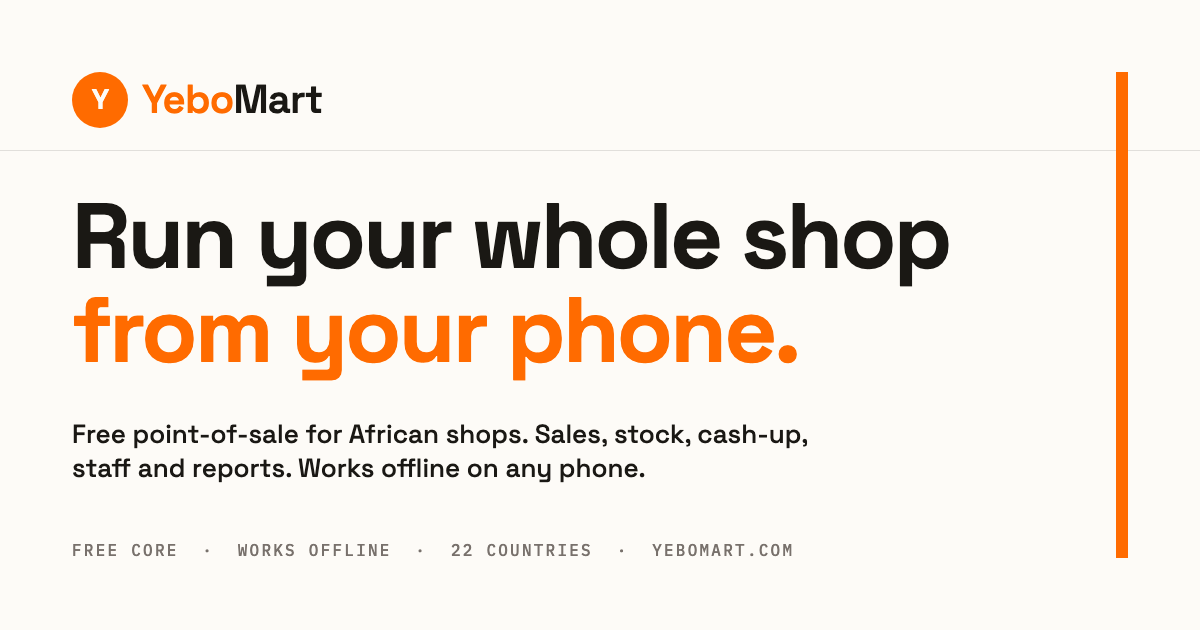
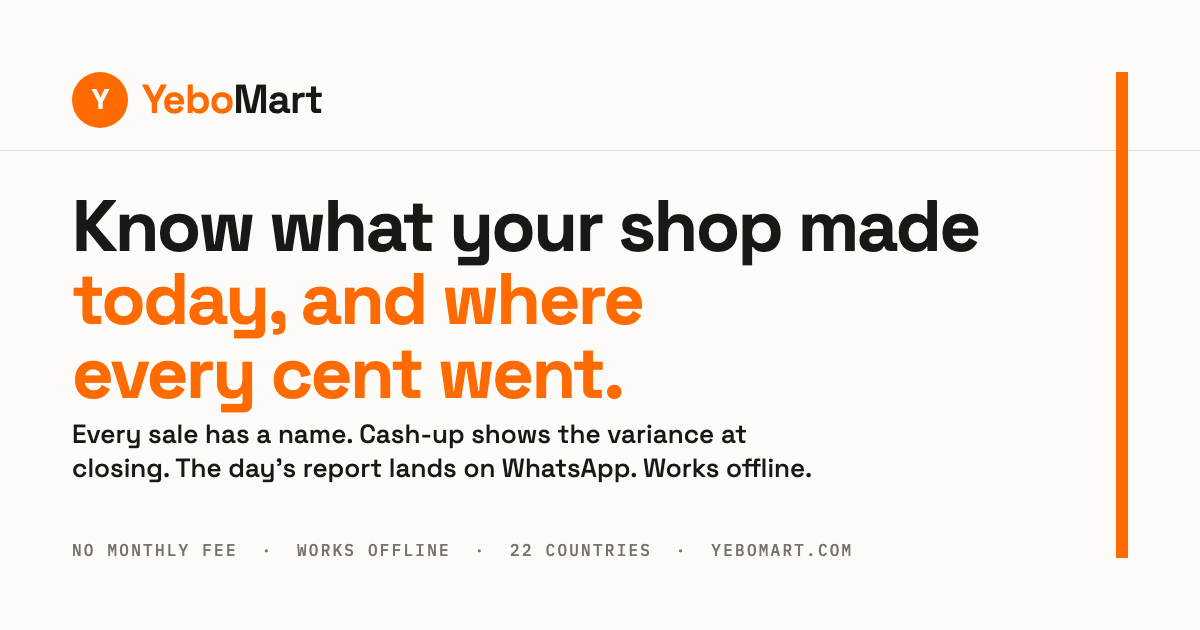
copy: reposition around the promise, features first, free as risk reversal
Hero, proof strip, features, assistant, messages, pricing, FAQ, final CTA
and meta rewritten on Ogilvy lines: one promise (know what the shop made
and where every cent went), audience flagged in the eyebrow, problem-to-
solution proof strip in the owner's words, features ordered by pull,
'free' moved out of the headline into pricing and the closing CTA.
EN and FR bundles updated; OG image regenerated with the new headline.

Changed region(s): [[0.0617, 0.3016, 0.8325, 0.7841], [0.2775, 0.8444, 0.7092, 0.9048], [0.0617, 0.8444, 0.2467, 0.9048]]

diff --git a/src/data/copy.ts b/src/data/copy.ts
@@ -16,10 +16,10 @@ export const PHONE_LABEL = '+268 7842 2613';
 export const APP_URL = 'https://app.yebomart.com';
 
 export const PROOF: { value: string; label: string; body: string }[] = [
-  { value: 'E0/mo', label: 'Free core', body: 'The till, stock, staff and reports are free. Forever.' },
-  { value: 'Offline', label: 'Keeps selling', body: 'Sales save on the phone and sync when the signal returns. Never counted twice.' },
-  { value: '22', label: 'Countries', body: 'Prices in your currency, from Eswatini to Kenya to Nigeria.' },
-  { value: '0', label: 'Extra hardware', body: 'Your phone camera is the barcode scanner.' },
+  { value: '“The cash doesn’t match.”', label: 'Cash-up', body: 'Open the till with a float, close it with the count. The variance is on screen before the drawer is locked, and every sale carries the cashier’s name.' },
+  { value: '“I can’t leave the shop.”', label: 'Your phone', body: 'Watch sales as they happen from anywhere. At closing time the day’s numbers land on your WhatsApp.' },
+  { value: '“Out of bread again.”', label: 'Stock', body: 'Counts drop with every sale. You get a warning before you run out, and a reorder list built from what actually sells.' },
+  { value: '“The signal’s gone.”', label: 'Offline', body: 'Sales keep saving on the phone and sync when the network returns. Never counted twice.' },
 ];
 
 export const LOOP: { n: string; title: string; body: string }[] = [
@@ -43,16 +43,16 @@ export const UNDER_HOOD: { icon: IconName; title: string; body: string }[] = [
 ];
 
 export const FEATURES: { icon: IconName; title: string; body: string }[] = [
-  { icon: 'till', title: 'POS & mobile till', body: 'A full-screen till built for one thumb. Scan, tap, charge.' },
-  { icon: 'stock', title: 'Stock & reorder', body: "Live counts, movements, receive stock, and a reorder list built from what's actually selling." },
-  { icon: 'cash', title: 'Cash-up & Z-report', body: 'Float in, cash counted out, variance and Z-report in one tap.' },
-  { icon: 'staff', title: 'Staff & PINs', body: 'Cashiers and managers with their own PINs and per-person sales reports.' },
-  { icon: 'returns', title: 'Returns & exchanges', body: 'Refund or swap an item. Stock and takings correct themselves.' },
-  { icon: 'supplier', title: 'Suppliers & purchase orders', body: 'Raise a PO, receive against it, record payments, see what you owe.' },
-  { icon: 'credit', title: 'Customer credit book', body: 'Who owes what, and a statement you can send by WhatsApp.' },
-  { icon: 'expense', title: 'Expenses', body: 'Rent, airtime, transport. So profit means profit.' },
-  { icon: 'audit', title: 'Audit log', body: 'Who did what, when. Voids, edits, adjustments.' },
-  { icon: 'tax', title: 'VAT & tax', body: 'Set your rate once. Receipts and reports respect it.' },
+  { icon: 'cash', title: 'Cash-up & Z-report', body: 'Float in, cash counted out. The variance and the Z-report are on screen before you lock the drawer.' },
+  { icon: 'staff', title: 'Staff PINs', body: 'Every cashier has a PIN. Every sale, void and refund carries their name, with a sales report per person.' },
+  { icon: 'stock', title: 'Stock & reorder', body: 'Live counts, movements and receiving. A reorder list builds itself from what sells, and a WhatsApp warns you when something runs low.' },
+  { icon: 'credit', title: 'Customer credit book', body: 'Who owes what, since when. Send a statement by WhatsApp in one tap instead of chasing.' },
+  { icon: 'till', title: 'POS & mobile till', body: 'A full-screen till for one thumb. Scan with the camera, tap, take cash or card, print or SMS the receipt.' },
+  { icon: 'returns', title: 'Returns & exchanges', body: 'Refund or swap in seconds. Stock and takings correct themselves.' },
+  { icon: 'supplier', title: 'Suppliers & purchase orders', body: 'Raise a PO, receive against it, record what you paid and see what you still owe.' },
+  { icon: 'expense', title: 'Expenses', body: 'Rent, airtime, transport. So profit means profit, not just sales.' },
+  { icon: 'audit', title: 'Audit log', body: 'Who changed a price, voided a sale or adjusted a count. And when.' },
+  { icon: 'tax', title: 'VAT & tax', body: 'Set your rate once. Receipts and reports carry it.' },
 ];
 
 export const ASSISTANT_QA: { q: string; a: string }[] = [
@@ -97,9 +97,10 @@ export const MESSAGES: { kind: string; time: string; text: string; why: string }
 
 export const FAQ: { q: string; a: string }[] = [
   { q: 'Does it work without internet?', a: 'Yes. Sales save on the phone and sync the moment the signal returns. Each sale carries its own ID, so the server refuses duplicates and nothing is counted twice.' },
-  { q: 'What does it cost?', a: 'The till, stock, staff, suppliers, customers and reports are free. You only pay for things that cost us money: 1 credit is E1. An assistant question is half a credit, an SMS is 1, a WhatsApp message is 2. Credits never expire.' },
+  { q: 'How does it stop money going missing?', a: 'Every cashier rings up on their own PIN, so every sale, void and refund has a name on it. At closing you count the drawer and the variance shows immediately. The audit log keeps every price change and stock adjustment.' },
+  { q: 'What does it cost?', a: 'There is no monthly fee. The till, stock, staff, suppliers, credit book and reports are free. You only pay for things that cost us money: 1 credit is E1. An assistant question is half a credit, an SMS is 1, a WhatsApp message is 2. Credits never expire.' },
   { q: 'Do I need a computer or a special till?', a: 'No. Any phone or tablet with a browser is the till. Your camera scans barcodes. If you want speed, add a Bluetooth scanner or a receipt printer later.' },
   { q: 'Can I run more than one shop?', a: 'Today each YeboID owner runs one shop. Multi-shop is being built. If you need it now, tell us on WhatsApp and we will put you on the list.' },
-  { q: 'How do my staff log in?', a: 'You sign in with YeboID on your phone number. Each cashier or manager gets a PIN on the shop\'s device, so every sale and every void has a name on it.' },
-  { q: 'Which languages?', a: 'The app runs in English and French. Reports and receipts use your currency and your VAT rate.' },
+  { q: 'How do my staff log in?', a: 'You sign in with YeboID on your phone number. Each cashier or manager gets a PIN on the shop’s device, so every sale and every void has a name on it.' },
+  { q: 'Which languages?', a: 'The app runs in English and French, with prices in your currency across 22 African countries.' },
 ];

diff --git a/src/data/translations.ts b/src/data/translations.ts
@@ -33,18 +33,18 @@ export const TRANSLATIONS: Record<'en' | 'fr', Bundle> = {
     'nav.hardware': 'Hardware',
     'nav.how': 'How it works',
     'nav.openApp': 'Open the app',
-    'hero.cta': 'Open the app',
-    'hero.eyebrow': 'Free POS & shop management',
-    'hero.line1': 'Run your whole shop',
-    'hero.line2': 'from your phone.',
+    'hero.cta': 'Set up your shop',
+    'hero.eyebrow': 'For shop owners who can\'t stand at the till all day',
+    'hero.line1': 'Know what your shop made today,',
+    'hero.line2': 'and where every cent went.',
     'hero.lede':
-      "YeboMart is a free point-of-sale for African shops. Ring up sales, watch stock move, count the till, and get the day's numbers on WhatsApp. Works offline. No computer needed.",
+      "YeboMart turns the phone in your pocket into the till, the stock book and the cash-up. Every sale carries a cashier's name, every closing shows whether the drawer matches, and every evening the day's numbers land on your WhatsApp. Sales keep saving when the signal drops.",
     'hero.whatsapp': 'WhatsApp us',
-    'hero.facts': 'Free core · Works offline · 22 countries · English & French',
-    'cta.title': 'Ready when your next customer is.',
-    'cta.body': "Sign in with your phone number and ring your first sale in five minutes. We'll help you set up on WhatsApp.",
-    'pricing.title': 'Free to use. Pay only for AI & messaging.',
-    'pricing.subtitle': 'No subscription. No tiers. Top up credits when you need them.',
+    'hero.facts': 'Every sale has a name · Cash-up variance at closing · Works offline · Report on WhatsApp at 18:00',
+    'cta.title': 'Ring your first sale before the next customer walks in.',
+    'cta.body': "Sign in with your phone number, name your shop, scan your stock in. Five minutes. The core is free, no card, no contract. We'll help you set up on WhatsApp.",
+    'pricing.title': 'No monthly fee. Pay only for messages and assistant questions.',
+    'pricing.subtitle': 'The till, stock, staff, credit book and reports cost nothing. Credits cover the things that cost us money.',
     'countryPicker.title': 'Select Your Country',
     'countryPicker.search': 'Search countries...',
     'footer.tagline': 'Shop management made simple',
@@ -58,18 +58,18 @@ export const TRANSLATIONS: Record<'en' | 'fr', Bundle> = {
     'nav.hardware': 'Matériel',
     'nav.how': 'Comment ça marche',
     'nav.openApp': "Ouvrir l'app",
-    'hero.cta': "Ouvrir l'app",
-    'hero.eyebrow': 'Caisse et gestion de boutique gratuites',
-    'hero.line1': 'Gérez toute votre boutique',
-    'hero.line2': 'depuis votre téléphone.',
+    'hero.cta': 'Créer ma boutique',
+    'hero.eyebrow': 'Pour les commerçants qui ne peuvent pas rester à la caisse toute la journée',
+    'hero.line1': "Sachez ce que votre boutique a fait aujourd'hui,",
+    'hero.line2': 'et où est passé chaque centime.',
     'hero.lede':
-      "YeboMart est une caisse gratuite pour les boutiques africaines. Encaissez, suivez le stock, comptez la caisse et recevez les chiffres du jour sur WhatsApp. Fonctionne hors ligne. Sans ordinateur.",
+      "YeboMart transforme le téléphone dans votre poche en caisse, en registre de stock et en clôture de caisse. Chaque vente porte le nom du caissier, chaque clôture montre si le tiroir correspond, et chaque soir les chiffres du jour arrivent sur votre WhatsApp. Les ventes continuent d'être enregistrées quand le réseau tombe.",
     'hero.whatsapp': 'Écrivez-nous sur WhatsApp',
-    'hero.facts': 'Gratuit · Hors ligne · 22 pays · Anglais et français',
-    'cta.title': 'Prêt dès votre prochain client.',
-    'cta.body': "Connectez-vous avec votre numéro et encaissez votre première vente en cinq minutes. On vous aide à démarrer sur WhatsApp.",
-    'pricing.title': "Gratuit. Payez uniquement pour l'IA et la messagerie.",
-    'pricing.subtitle': "Pas d'abonnement. Pas de paliers. Rechargez quand vous en avez besoin.",
+    'hero.facts': 'Chaque vente a un nom · Écart de caisse à la clôture · Hors ligne · Rapport WhatsApp à 18h',
+    'cta.title': 'Encaissez votre première vente avant le prochain client.',
+    'cta.body': "Connectez-vous avec votre numéro, nommez votre boutique, scannez votre stock. Cinq minutes. La base est gratuite, sans carte ni contrat. On vous aide à démarrer sur WhatsApp.",
+    'pricing.title': "Pas d'abonnement. Payez seulement les messages et les questions à l'assistant.",
+    'pricing.subtitle': 'La caisse, le stock, le personnel, le carnet de crédit et les rapports ne coûtent rien. Les crédits couvrent ce qui nous coûte de l\'argent.',
     'countryPicker.title': 'Sélectionner votre pays',
     'countryPicker.search': 'Rechercher des pays...',
     'footer.tagline': 'La gestion de boutique simplifiée',

diff --git a/index.html b/index.html
@@ -3,10 +3,10 @@
   <head>
     <meta charset="UTF-8" />
     <meta name="viewport" content="width=device-width, initial-scale=1.0" />
-    <title>YeboMart — Free POS & shop management for African shops</title>
+    <title>YeboMart — Know what your shop made today, and where every cent went</title>
     <meta
       name="description"
-      content="Free point-of-sale for African shops. Ring up sales, track stock, count the till, and get the day's numbers on WhatsApp. Works offline on any phone. Pay only for AI and messages."
+      content="Know what your shop made today and where every cent went. Every sale carries a cashier's name, cash-up shows the variance at closing, the day's report lands on WhatsApp. Works offline on any phone. No monthly fee."
     />
     <link rel="canonical" href="https://yebomart.com/" />
 
@@ -18,10 +18,10 @@
     <meta property="og:type" content="website" />
     <meta property="og:site_name" content="YeboMart" />
     <meta property="og:url" content="https://yebomart.com/" />
-    <meta property="og:title" content="YeboMart — Free POS & shop management for African shops" />
+    <meta property="og:title" content="YeboMart — Know what your shop made today, and where every cent went" />
     <meta
       property="og:description"
-      content="Ring up sales, track stock, count the till, and get the day's numbers on WhatsApp. Works offline on any phone. Free to use."
+      content="Every sale carries a cashier's name, cash-up shows the variance at closing, the day's report lands on WhatsApp. Works offline on any phone. No monthly fee."
     />
     <meta property="og:image" content="https://yebomart.com/og-image.png" />
     <meta property="og:image:width" content="1200" />
@@ -29,10 +29,10 @@
 
     <!-- Twitter / X card -->
     <meta name="twitter:card" content="summary_large_image" />
-    <meta name="twitter:title" content="YeboMart — Free POS & shop management for African shops" />
+    <meta name="twitter:title" content="YeboMart — Know what your shop made today, and where every cent went" />
     <meta
       name="twitter:description"
-      content="Ring up sales, track stock, count the till, and get the day's numbers on WhatsApp. Works offline on any phone. Free to use."
+      content="Every sale carries a cashier's name, cash-up shows the variance at closing, the day's report lands on WhatsApp. Works offline on any phone. No monthly fee."
     />
     <meta name="twitter:image" content="https://yebomart.com/og-image.png" />
 

diff --git a/src/components/sections/Pricing.tsx b/src/components/sections/Pricing.tsx
@@ -37,9 +37,9 @@ export function Pricing() {
 
         <Reveal className="mt-14 grid gap-8 rounded-sharp border border-line bg-cream p-7 lg:grid-cols-[minmax(0,300px)_1fr] lg:p-10">
           <div>
-            <Eyebrow>Free, forever</Eyebrow>
-            <h3 className="mt-3 font-display text-[26px] font-bold leading-tight tracking-tightest">Everything a shop runs on.</h3>
-            <p className="lede mt-3 text-[15px] leading-[1.6]">No subscription, no tiers, no trial that ends.</p>
+            <Eyebrow>No monthly fee</Eyebrow>
+            <h3 className="mt-3 font-display text-[26px] font-bold leading-tight tracking-tightest">Everything a shop runs on, free.</h3>
+            <p className="lede mt-3 text-[15px] leading-[1.6]">No subscription, no tiers, no trial that ends, no card to enter.</p>
           </div>
           <ul className="grid gap-x-6 gap-y-2.5 text-[14.5px] sm:grid-cols-2 lg:grid-cols-3">
             {FREE_FEATURES.map((f) => (

diff --git a/src/components/sections/Features.tsx b/src/components/sections/Features.tsx
@@ -10,9 +10,9 @@ export function Features() {
       <Page className="py-24 lg:py-32">
         <SectionHead
           index="02"
-          label="Everything a shop needs"
-          heading="The whole back office, in the same app as the till."
-          lede="Every screen below is free. They share one database, so a sale on the till is already in stock, in reports, and in the audit log."
+          label="What you get"
+          heading="The till, the stock book, the cash-up and the staff log. One app."
+          lede="One database under all of it, so a sale rung up on the till is already in the stock count, the cash-up, tonight's report and the audit log. No re-typing, no second book."
         />
         <ul className="mt-14 grid gap-px overflow-hidden rounded-sharp border border-line bg-line sm:grid-cols-2 lg:grid-cols-5">
           {FEATURES.map((f, i) => (

diff --git a/src/components/sections/ProofStrip.tsx b/src/components/sections/ProofStrip.tsx
@@ -9,7 +9,7 @@ export function ProofStrip() {
         <ul className="grid gap-px overflow-hidden rounded-sharp border border-line bg-line sm:grid-cols-2 lg:grid-cols-4">
           {PROOF.map((p, i) => (
             <Reveal as="li" key={p.label} delay={i * 90} className="bg-sand p-6">
-              <div className="font-display text-[34px] font-bold leading-none tracking-tightest">{p.value}</div>
+              <div className="font-display text-[24px] font-bold leading-[1.15] tracking-tightest">{p.value}</div>
               <div className="mt-2 font-mono text-[11px] uppercase tracking-eyebrow text-brick">{p.label}</div>
               <p className="mt-2 text-[14.5px] leading-[1.55] text-mute">{p.body}</p>
             </Reveal>

diff --git a/src/components/sections/Messages.tsx b/src/components/sections/Messages.tsx
@@ -15,7 +15,7 @@ export function Messages() {
             index="04"
             label="Messages"
             heading="The numbers come to you."
-            lede="Every evening the day's report lands on your WhatsApp. Low stock, receipts and customer statements go out the same way. WhatsApp first, SMS if WhatsApp can't deliver."
+            lede="At closing time the day's report lands on your WhatsApp: sales, cash against card, profit, top five. Low-stock warnings in the morning. Receipts to customers by SMS. Statements to the people who owe you. WhatsApp first, SMS when WhatsApp can't deliver."
           />
           <dl className="mt-9 grid gap-x-8 gap-y-6 sm:grid-cols-2">
             {MESSAGES.map((m, i) => (

diff --git a/src/components/sections/Assistant.tsx b/src/components/sections/Assistant.tsx
@@ -12,9 +12,9 @@ export function Assistant() {
         <div className="lg:col-span-5">
           <SectionHead
             index="03"
-            label="Your assistant"
+            label="New · Your assistant"
             heading="Ask your shop a question."
-            lede="Your assistant reads your sales, stock and margins every time you ask, and answers in plain language. It advises. You decide."
+            lede="Your assistant reads today's sales, the stock on hand and your margins, then answers in plain words: what's not selling, what to restock, how the week is going. It advises. You decide."
           />
           <ul className="mt-8 space-y-3">
             {ASSISTANT_FACTS.map((f, i) => (

diff --git a/src/components/sections/Faq.tsx b/src/components/sections/Faq.tsx
@@ -20,7 +20,7 @@ export function Faq() {
     <Section tone="sand">
       <Page className="grid gap-10 py-24 lg:grid-cols-12 lg:py-32">
         <div className="lg:col-span-4">
-          <SectionHead index="07" label="Questions" heading="Straight answers." lede="If yours isn't here, WhatsApp us. A person replies." />
+          <SectionHead index="07" label="Questions" heading="Straight answers, before you commit anything." lede="If yours isn't here, WhatsApp us. A person replies." />
         </div>
         <Reveal className="lg:col-span-8" self={false}>
           <div className="divide-y divide-line border-y border-line">

diff --git a/src/components/sections/HowItWorks.tsx b/src/components/sections/HowItWorks.tsx
@@ -15,7 +15,7 @@ export function HowItWorks() {
           index="01"
           label="How it works"
           heading="One sale sets everything else in motion."
-          lede="You ring up a sale. YeboMart does the rest: stock drops, the till total updates, the day's report writes itself, and your assistant reads it all."
+          lede="A cashier rings up a sale on their PIN. YeboMart does the rest: the stock count drops, the till total updates, tonight's report writes itself, and your assistant reads all of it."
         />
 
         <div className="mt-14">
